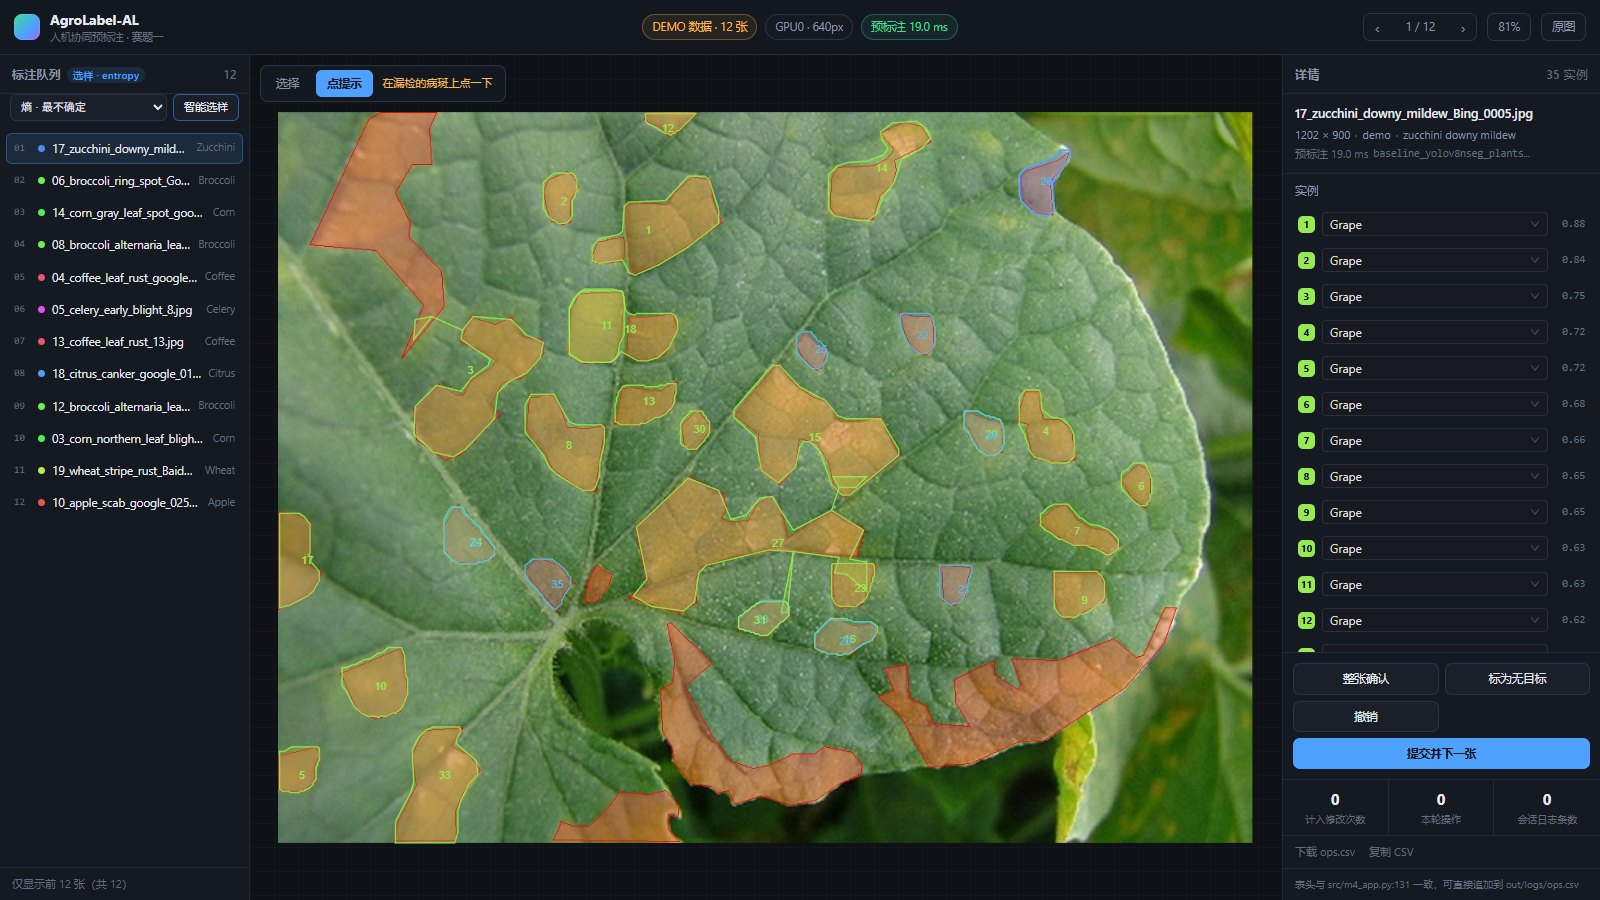
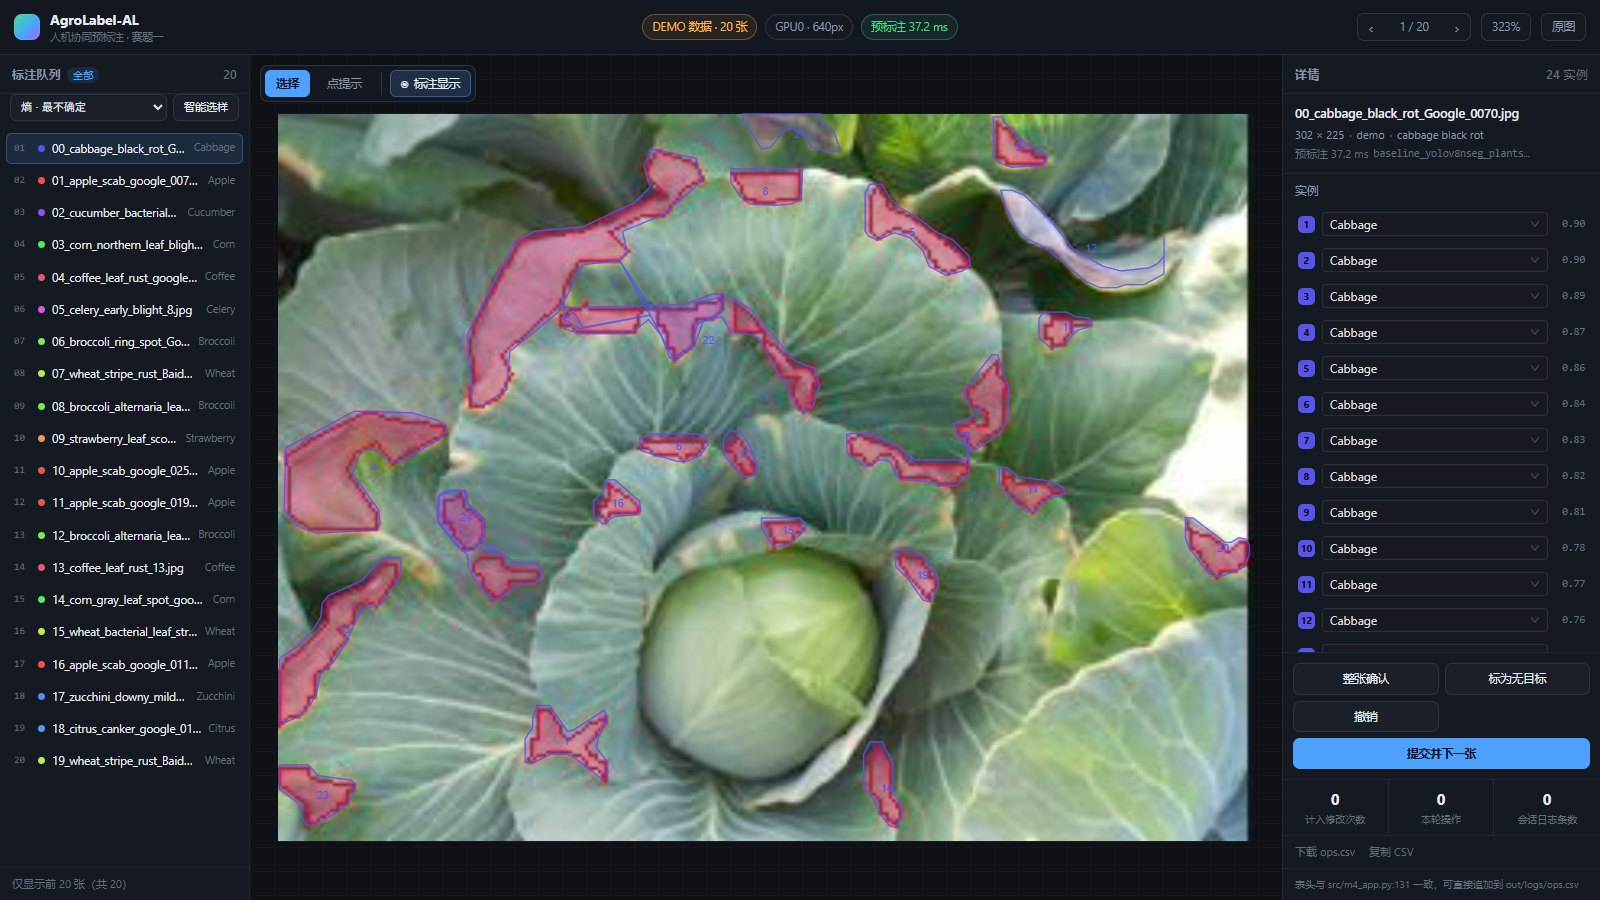
feat(frontend): 画布加标注显示/隐藏开关，默认显示（H 键）
工具栏最右侧新增一个视图开关：
- 关掉后多边形、序号、顶点全部从画布移除，可以干净地看原图判断边界
- 纯视图开关：实例数据不受影响，右栏照常可编辑
- 关掉时多边形不拦截点击，选择模式点空白可取消选中，
  点提示模式可在任意位置点击
- 状态跨图保持

顺带确认：开关前后截图对比，隐藏态下病斑呈自然橙褐色组织，
无粉色填充/描边/序号；按钮从「◉ 标注显示」变为「○ 标注隐藏」。

tsc / oxlint / vite build 全绿。

diff --git a/frontend/src/components/CanvasStage.tsx b/frontend/src/components/CanvasStage.tsx
@@ -46,6 +46,8 @@ export function CanvasStage() {
   const mode = useStore((s) => s.mode)
   const refining = useStore((s) => s.refining)
   const refineAt = useStore((s) => s.refineAt)
+  const showMasks = useStore((s) => s.showMasks)
+  const toggleMasks = useStore((s) => s.toggleMasks)
 
   const [size, setSize] = useState({ width: 0, height: 0 })
   const [img, setImg] = useState<HTMLImageElement | null>(null)
@@ -210,7 +212,9 @@ export function CanvasStage() {
                 <KonvaImage image={img} width={imgW} height={imgH} listening={false} />
               )}
 
-              {instances.map((inst, i) => {
+              {/* 关掉标注时连实例一起不渲染：既不挡视线，也不再拦截点击
+                  （于是 select 模式的点空白取消、refine 模式的点提示都还能用） */}
+              {showMasks && instances.map((inst, i) => {
                 const isSel = inst.id === selectedId
                 return (
                   <Group key={inst.id}>
@@ -247,7 +251,7 @@ export function CanvasStage() {
               })}
 
               {/* 选中实例的顶点，为后面的拖顶点微调留位 */}
-              {selected?.polygon.map(([x, y], i) => (
+              {showMasks && selected?.polygon.map(([x, y], i) => (
                 <Circle
                   key={i}
                   x={x * imgW}
@@ -287,6 +291,20 @@ export function CanvasStage() {
               {refining && ' · 识别中…'}
             </span>
           )}
+
+          <span className="tool-sep" />
+
+          <button
+            className={`tool toggle${showMasks ? ' on' : ''}`}
+            onClick={toggleMasks}
+            title="显示 / 隐藏标注框（H）—— 关掉可以干净地看原图，不影响已标的实例"
+            aria-pressed={showMasks}
+          >
+            <span className="tool-eye" aria-hidden>
+              {showMasks ? '◉' : '○'}
+            </span>
+            标注{showMasks ? '显示' : '隐藏'}
+          </button>
         </div>
       )}
 

diff --git a/frontend/src/store.ts b/frontend/src/store.ts
@@ -99,6 +99,8 @@ type Store = {
   mode: CanvasMode
   /** 点提示请求进行中（与 predict 的 status 分开，避免文案串台） */
   refining: boolean
+  /** 画布是否显示标注多边形；关掉可以干净地看原图（数据不受影响） */
+  showMasks: boolean
 
   toasts: Toast[]
 
@@ -118,6 +120,7 @@ type Store = {
   submit: () => Promise<void>
 
   setMode: (m: CanvasMode) => void
+  toggleMasks: () => void
   /** 点提示：在图像像素坐标 (px,py) 处裁 ROI 重识别，成功后插入一个新实例 */
   refineAt: (px: number, py: number) => Promise<void>
   /** 主动学习选样，把结果换成新队列 */
@@ -174,6 +177,8 @@ export const useStore = create<Store>((set, get) => ({
 
   mode: 'select',
   refining: false,
+  /** 画布是否显示标注多边形。纯视图开关，不影响实例数据本身 */
+  showMasks: true,
 
   toasts: [],
 
@@ -438,6 +443,8 @@ export const useStore = create<Store>((set, get) => ({
   // ------------------------------------------------------------ 点提示
 
   setMode: (m) => set({ mode: m }),
+
+  toggleMasks: () => set((s) => ({ showMasks: !s.showMasks })),
 
   refineAt: async (px, py) => {
     const { current, instances, selectedId, classes } = get()

diff --git a/frontend/src/styles.css b/frontend/src/styles.css
@@ -350,6 +350,25 @@ button { font: inherit; color: inherit; }
   white-space: nowrap;
 }
 
+/* 模式组与显示开关之间的分隔 */
+.tool-sep {
+  width: 1px;
+  align-self: stretch;
+  margin: 2px 2px;
+  background: var(--border-2);
+}
+
+/* 显示/隐藏标注：这是视图开关，不是模式，所以用弱一档的高亮 */
+.tool.toggle { display: inline-flex; align-items: center; gap: 5px; }
+.tool.toggle.on {
+  color: var(--text);
+  background: rgba(78, 161, 255, .16);
+  border-color: rgba(78, 161, 255, .4);
+  font-weight: 500;
+}
+.tool.toggle:not(.on) { color: var(--dim-2); }
+.tool-eye { font-size: 10px; line-height: 1; }
+
 /* 左栏：智能选样 */
 .sample-bar {
   display: flex;

diff --git a/frontend/src/hooks/useHotkeys.ts b/frontend/src/hooks/useHotkeys.ts
@@ -54,6 +54,10 @@ export function useHotkeys() {
         case 'P':
           s.setMode('refine')
           break
+        case 'h':
+        case 'H':
+          s.toggleMasks()
+          break
         default:
           break
       }

diff --git a/frontend/README.md b/frontend/README.md
@@ -66,8 +66,21 @@ npm run dev          # http://localhost:5173
 | `F` | 自适应视图 |
 | `V` | 选择模式 |
 | `P` | 点提示模式 |
+| `H` | 显示 / 隐藏标注框 |
 
 鼠标：滚轮缩放（以光标为锚点）、拖拽平移、双击自适应、点多边形选中。
+
+### 显示 / 隐藏标注
+
+画布左上工具栏最右边那个开关（`H`），**默认显示**。
+
+关掉之后多边形、序号、顶点全部从画布移除，可以干净地看原图判断病斑边界。
+这是**纯视图开关**：
+
+- 实例数据不受影响，右栏列表照常可编辑
+- 关掉时多边形也不再拦截点击，此时 `选择` 模式点空白可直接取消选中，
+  `点提示` 模式可以在任意位置点击
+- 状态跨图保持，切图不会自己变回来
 
 ### 点提示（补漏检）
 
